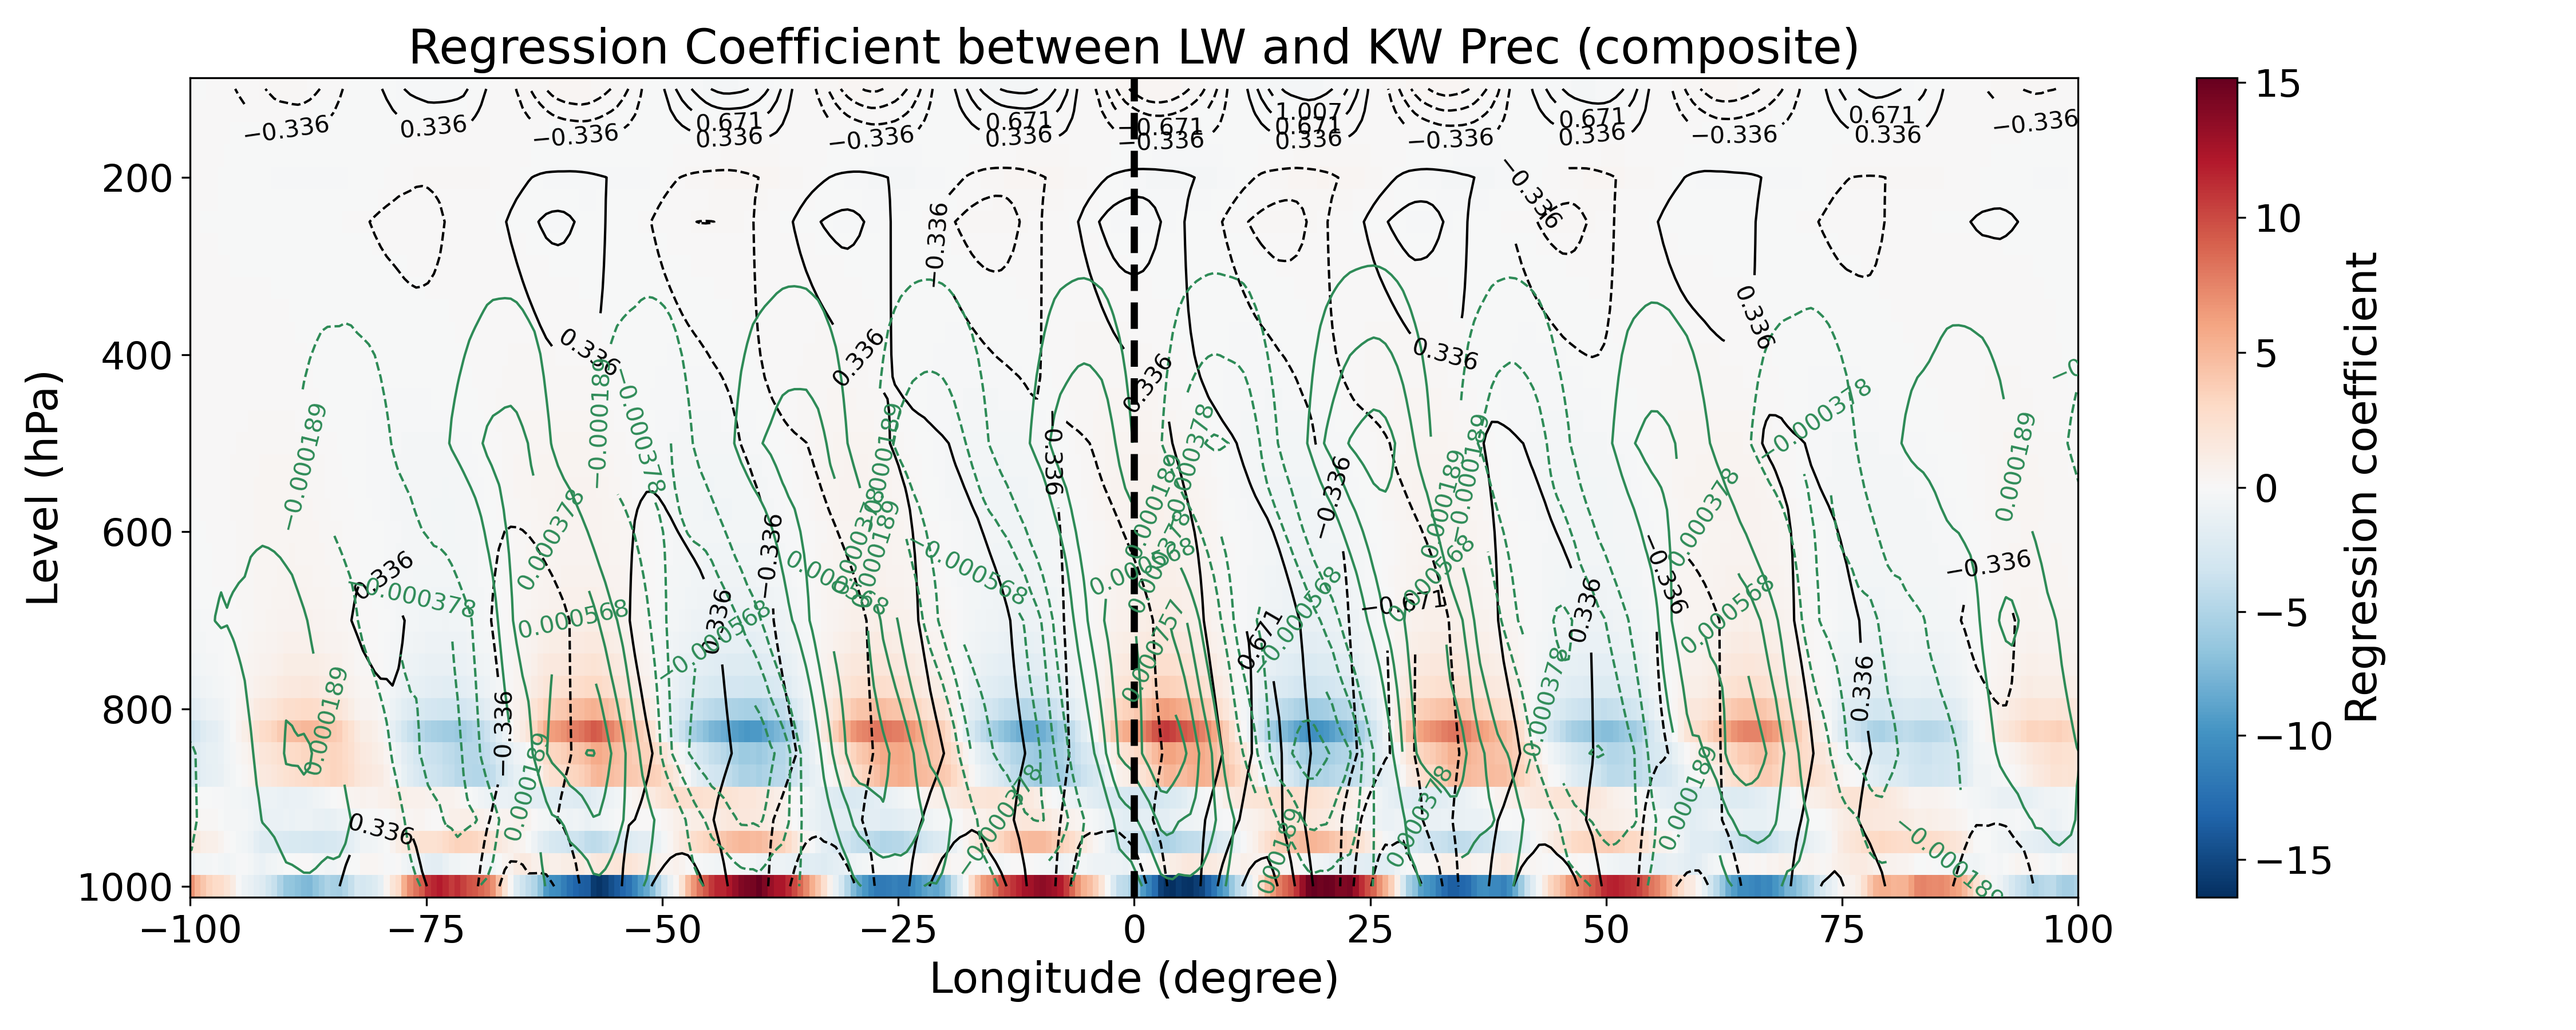
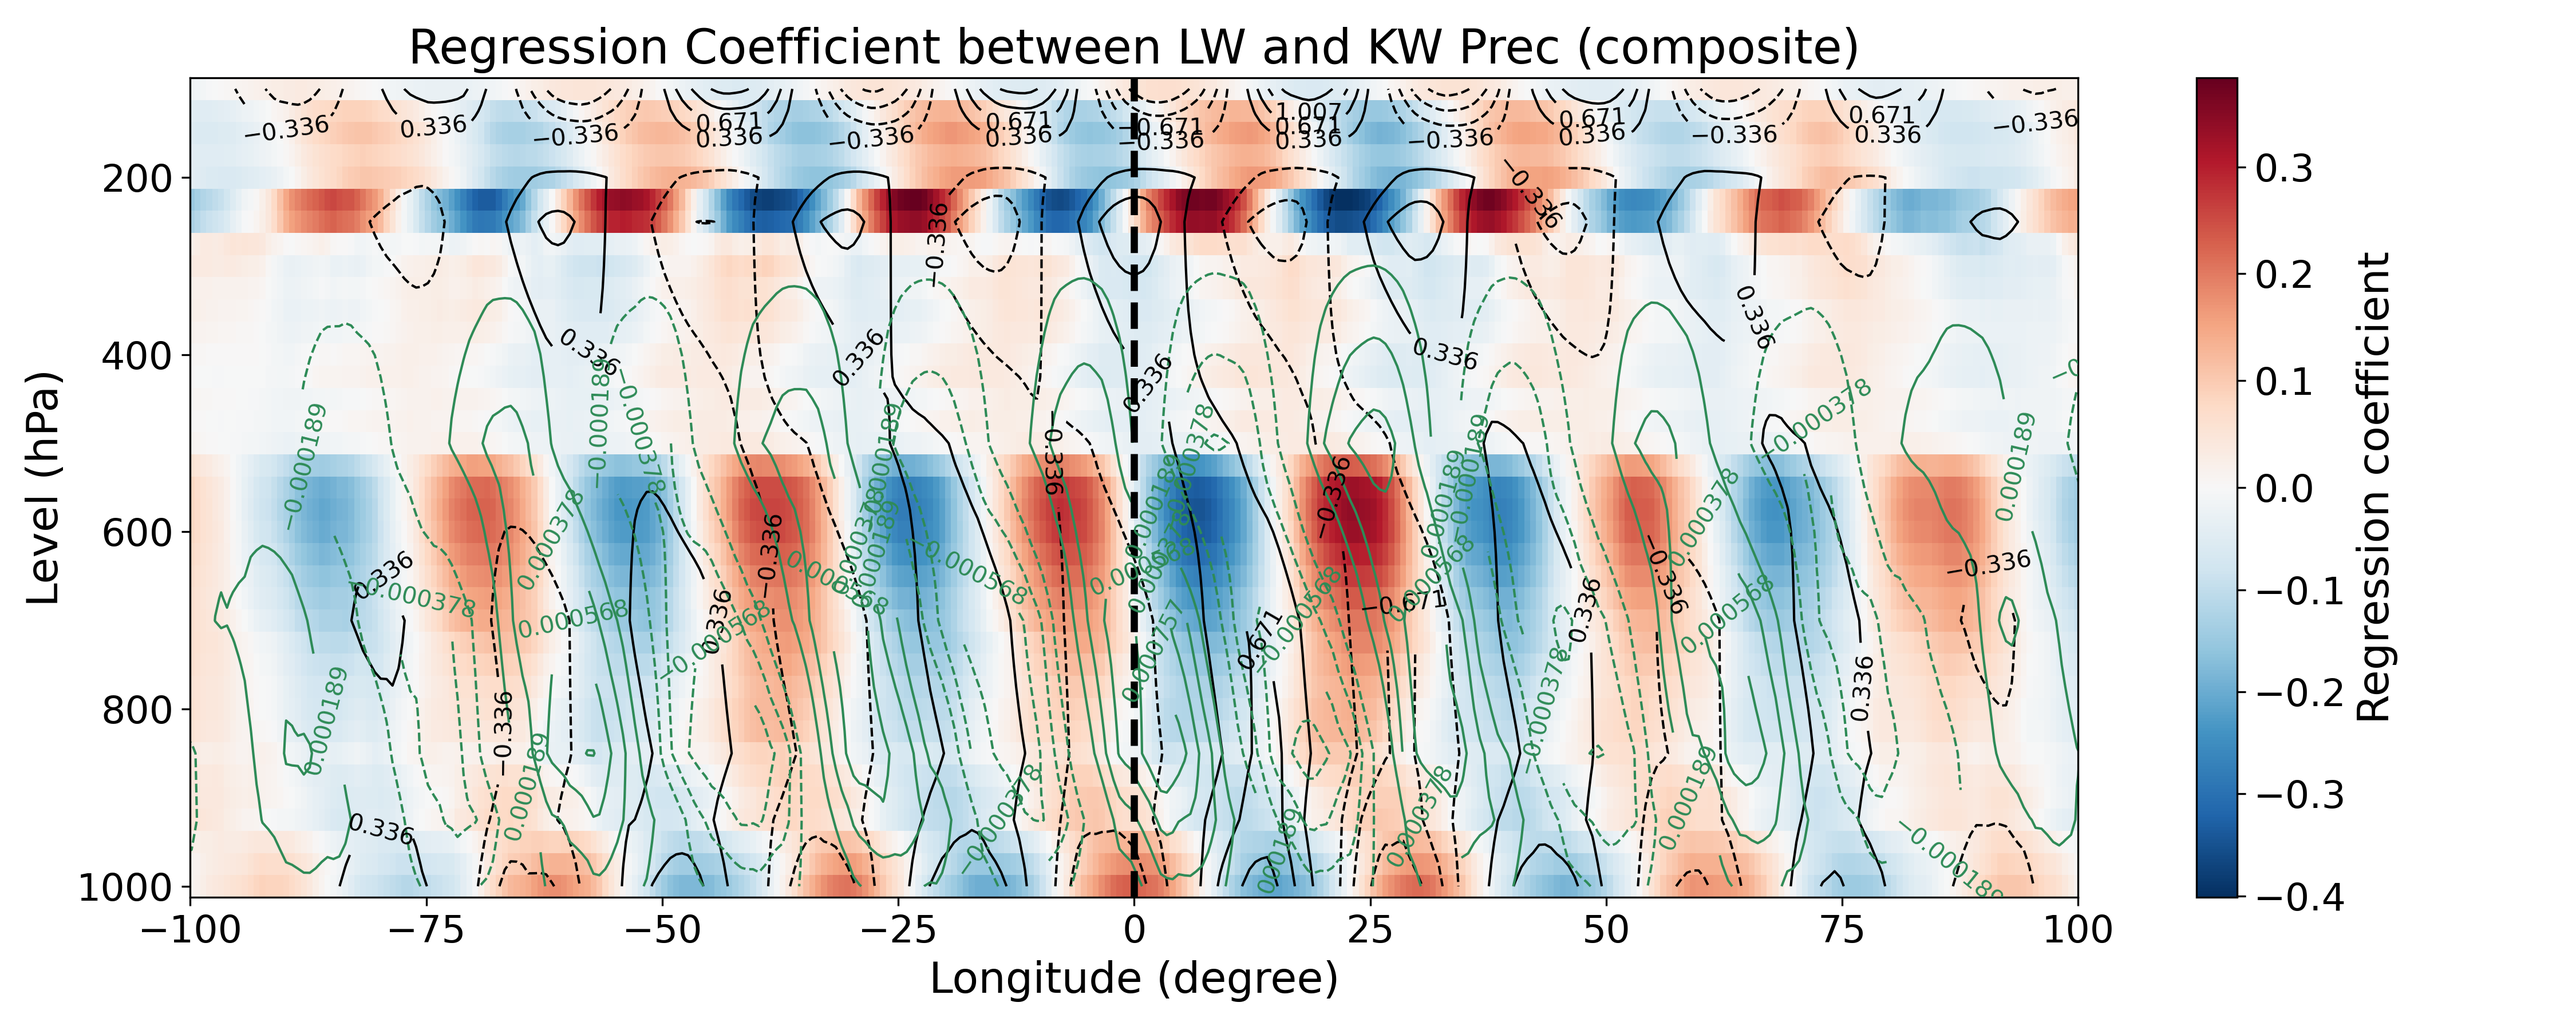
Composite of moisture-associated radiative heating

diff --git a/Code/ERA5/moisture_rad.py b/Code/ERA5/moisture_rad.py
@@ -22,10 +22,10 @@ from matplotlib import pyplot as plt
 LRF = {}
 
 with h5py.File("/work/b11209013/2025_Research/MSI/Rad_Stuff/LRF.h5", "r") as f:
-    LRF["t_lw"] = np.array(f.get("t_lw"))
-    LRF["t_sw"] = np.array(f.get("t_sw"))
-    LRF["q_lw"] = np.array(f.get("q_lw"))
-    LRF["q_sw"] = np.array(f.get("q_sw"))
+    LRF["t_lw"] = np.array(f.get("t_lw"))[::-1, ::-1]
+    LRF["t_sw"] = np.array(f.get("t_sw"))[::-1, ::-1]
+    LRF["q_lw"] = np.array(f.get("q_lw"))[::-1, ::-1]
+    LRF["q_sw"] = np.array(f.get("q_sw"))[::-1, ::-1]
 
 # Load ERA5 regression profile
 PATH_REG = "/home/b11209013/2025_Research/Obs/Files/ERA5/reg/"
